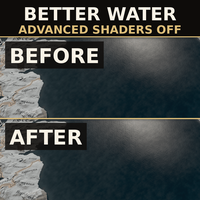
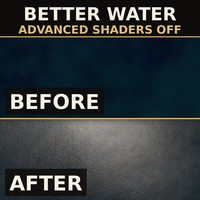
Preview: labels at the bottom of each half; real BEFORE half (flat low spec water)

diff --git a/steam-workshop/make_thumbnail.py b/steam-workshop/make_thumbnail.py
@@ -1,17 +1,18 @@
-"""Rebuilds thumbnail.png (Workshop preview) and thumbnail-200px.png (a legibility check
-at Steam's listing size, not uploaded). Layout lives in thumbnail_layout.py.
+"""Rebuilds thumbnail.png (Workshop preview) and steam-workshop/thumbnail-200px.png (a
+legibility check at Steam's listing size, not uploaded). Layout lives in thumbnail_layout.py.
 
-The BEFORE half must be the same spot with the mod off (flat vanilla low spec water);
-the crop is chosen around the sun highlight, where the difference is largest."""
+BEFORE is the flat vanilla low spec ocean: a colour map with no waves, no highlight and no
+reflection anywhere on the map, so a crop of open sea (before-flat-water.png) stands in for
+the same spot. AFTER is the North Sea with the sun highlight, this mod on. Both windows
+are open water only; the AFTER window is zoomed on the highlight, where the difference is
+largest, and the labels sit at the bottom of each half to keep it clear."""
 import os, sys
 sys.path.insert(0, os.path.dirname(__file__))
 from thumbnail_layout import make
 
-OLD = "/home/nikita/Pictures/Screenshots/BEFORE_flat_water.png"            # TODO: same spot, mod off
-NEW = "/home/nikita/Pictures/Screenshots/Screenshot_20260913_010758.png"   # waves + highlight, this mod
-CROP_OLD = (250, 0, 2370, 853)
-CROP_NEW = (250, 0, 2370, 853)   # the North Sea west of Denmark, sun highlight top centre
+OLD = os.path.join(os.path.dirname(__file__), "before-flat-water.png")   # flat low spec water, a 420x389 crop of open sea
+NEW = "/home/nikita/Pictures/Screenshots/Screenshot_20260913_010758.png"   # waves + highlight (North Sea)
+CROP_OLD = (0, 110, 420, 281)   # 2.46:1 band from the middle of that crop
+CROP_NEW = (1200, 0, 2240, 423)
 OUT = os.path.join(os.path.dirname(__file__), "..", "thumbnail.png")
-if not os.path.exists(OLD):
-    OLD = NEW                     # provisional: both halves from the AFTER shot
 make(OUT, "BETTER WATER", OLD, NEW, CROP_OLD, CROP_NEW)

diff --git a/steam-workshop/thumbnail_layout.py b/steam-workshop/thumbnail_layout.py
@@ -37,8 +37,10 @@ def make(out, title, before, after, crop_before, crop_after, sub="ADVANCED SHADE
     tw = d.textlength(title, font=f_title); d.text(((S - tw) / 2, 18), title, font=f_title, fill=CREAM)
     sw = d.textlength(sub, font=f_sub); d.text(((S - sw) / 2, 118), sub, font=f_sub, fill=GOLD)
     # half labels
-    label(d, BAND + 22, "BEFORE", f_tag)
-    label(d, BAND + HALF + 22, "AFTER", f_tag)
+    # labels at the bottom of each half, so the top of the screenshot stays clear
+    tag_h = f_tag.size + 22 * 2 - 10
+    label(d, BAND + HALF - tag_h - 22, "BEFORE", f_tag)
+    label(d, S - tag_h - 22, "AFTER", f_tag)
     # seams
     d.rectangle([0, BAND - 4, S, BAND], fill=GOLD)
     d.rectangle([0, BAND + HALF - 3, S, BAND + HALF + 2], fill=GOLD)
